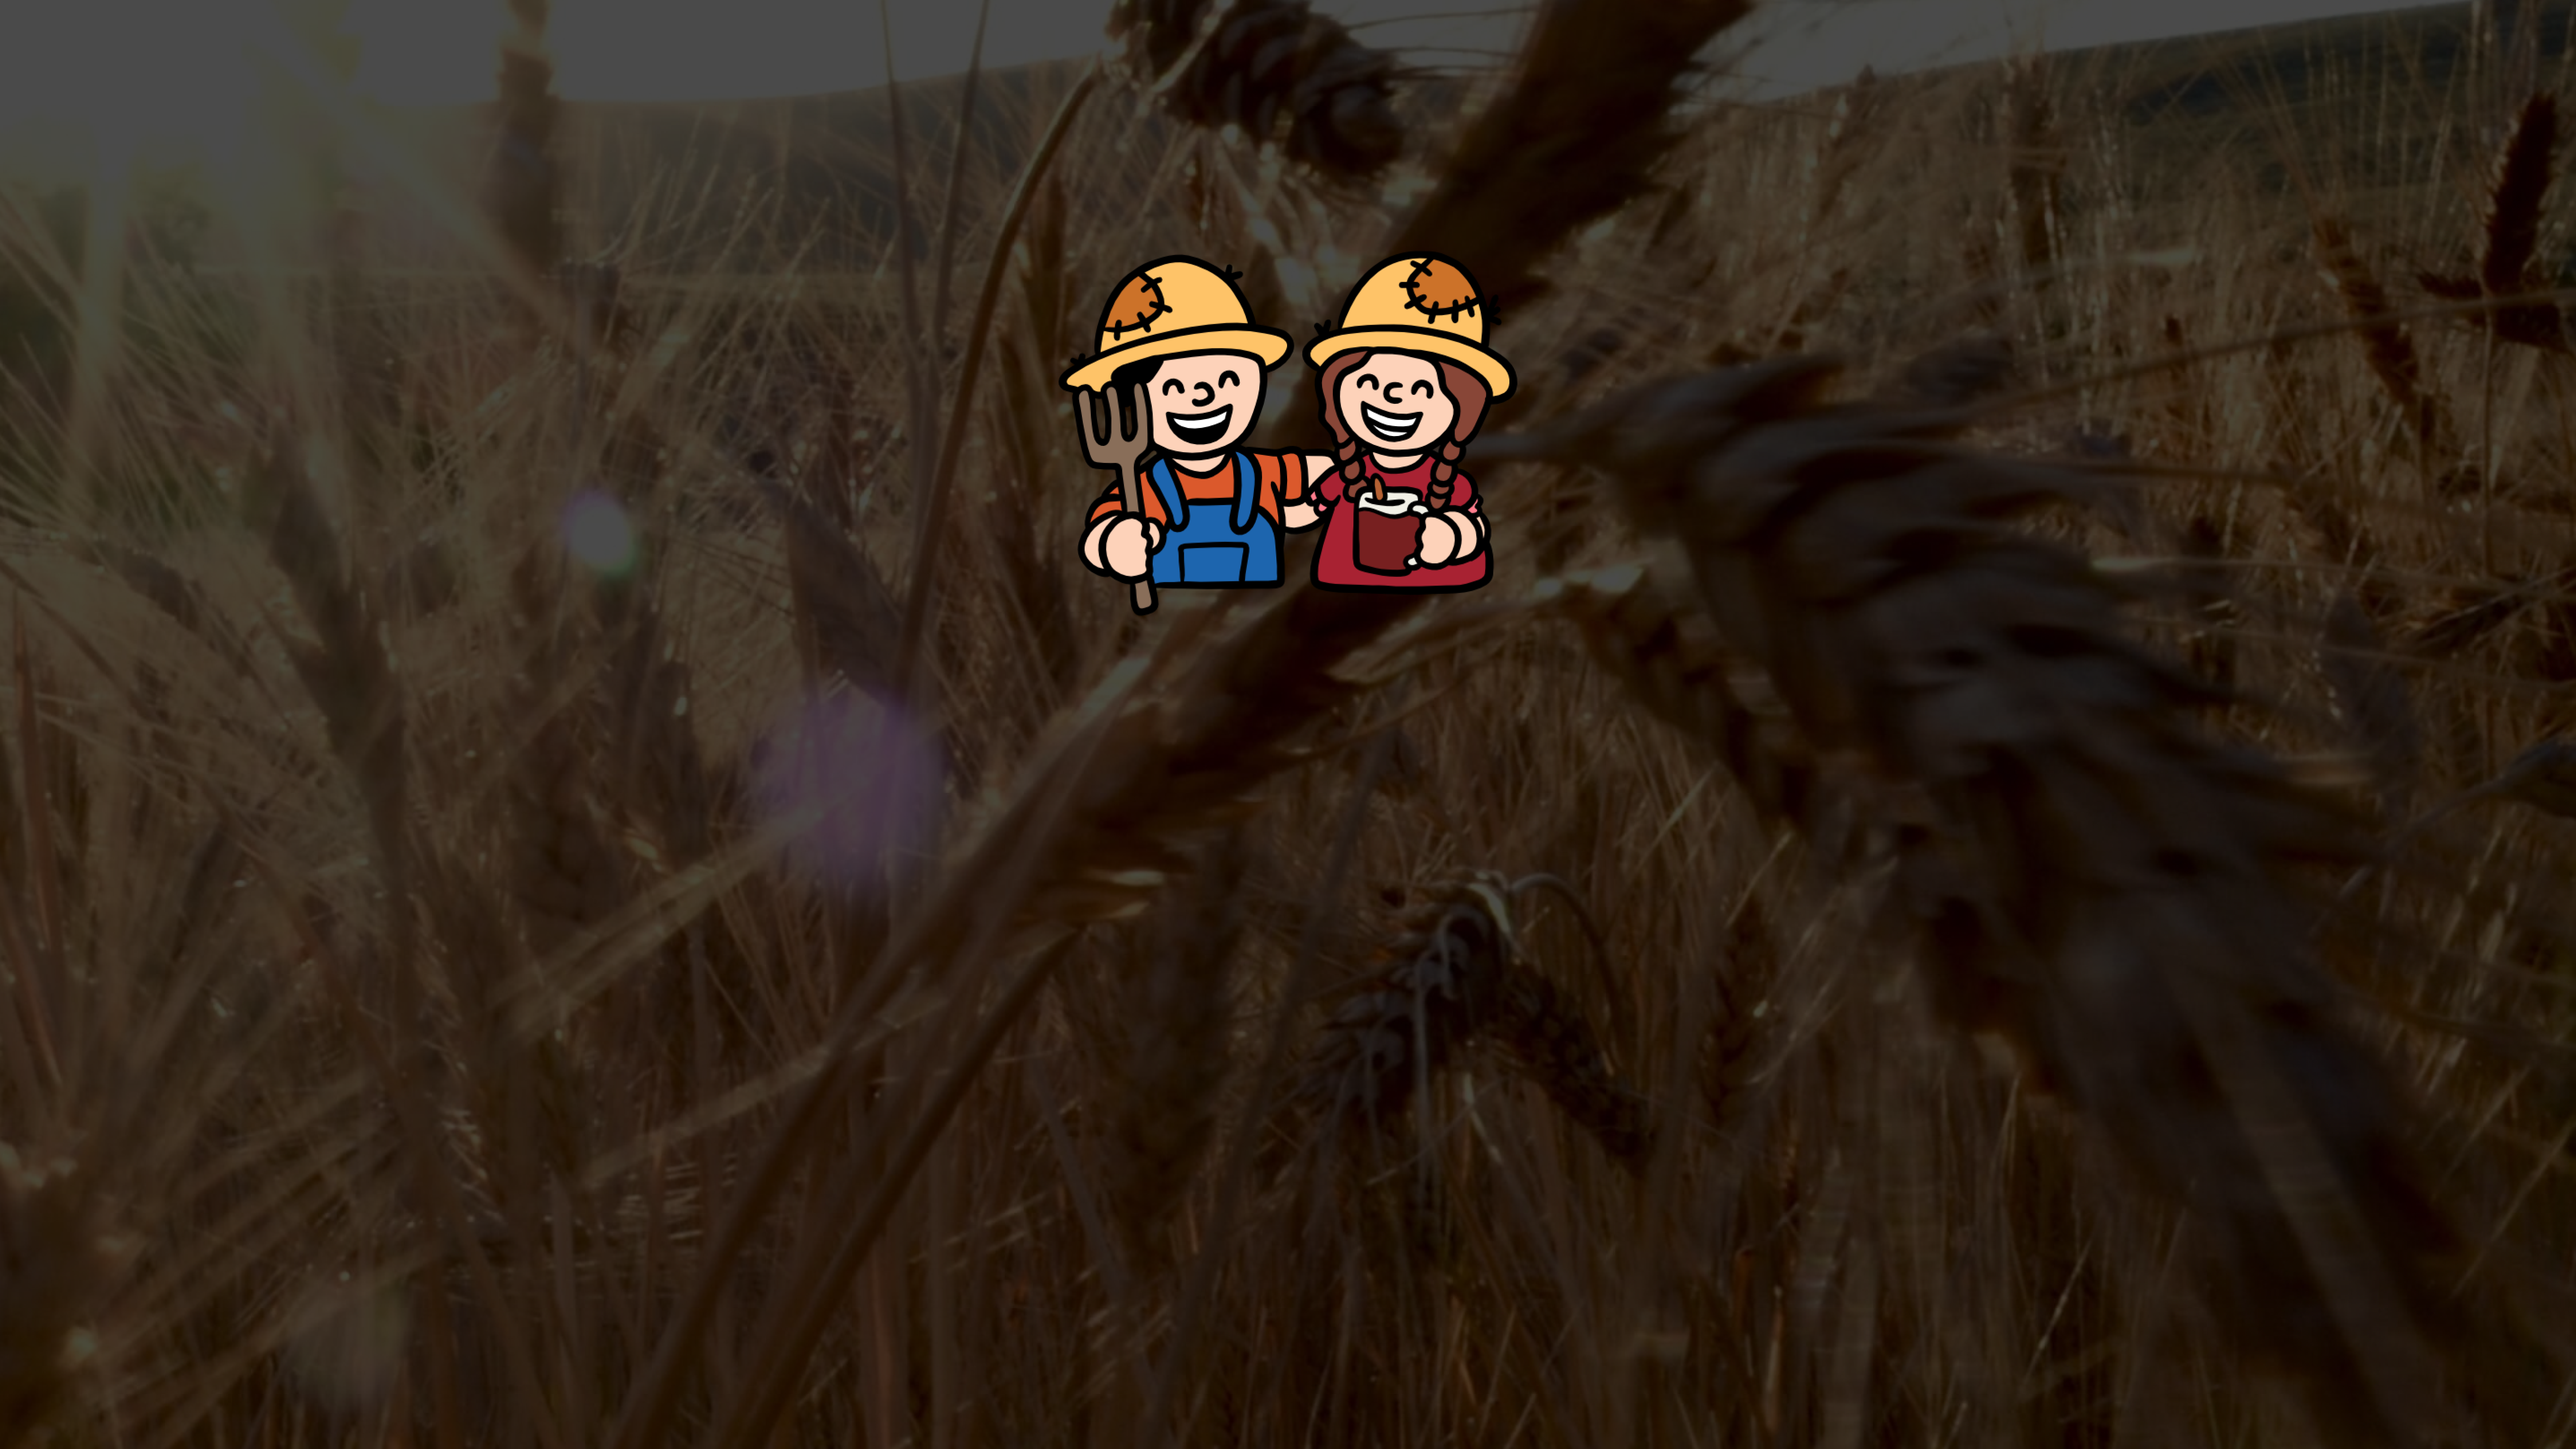
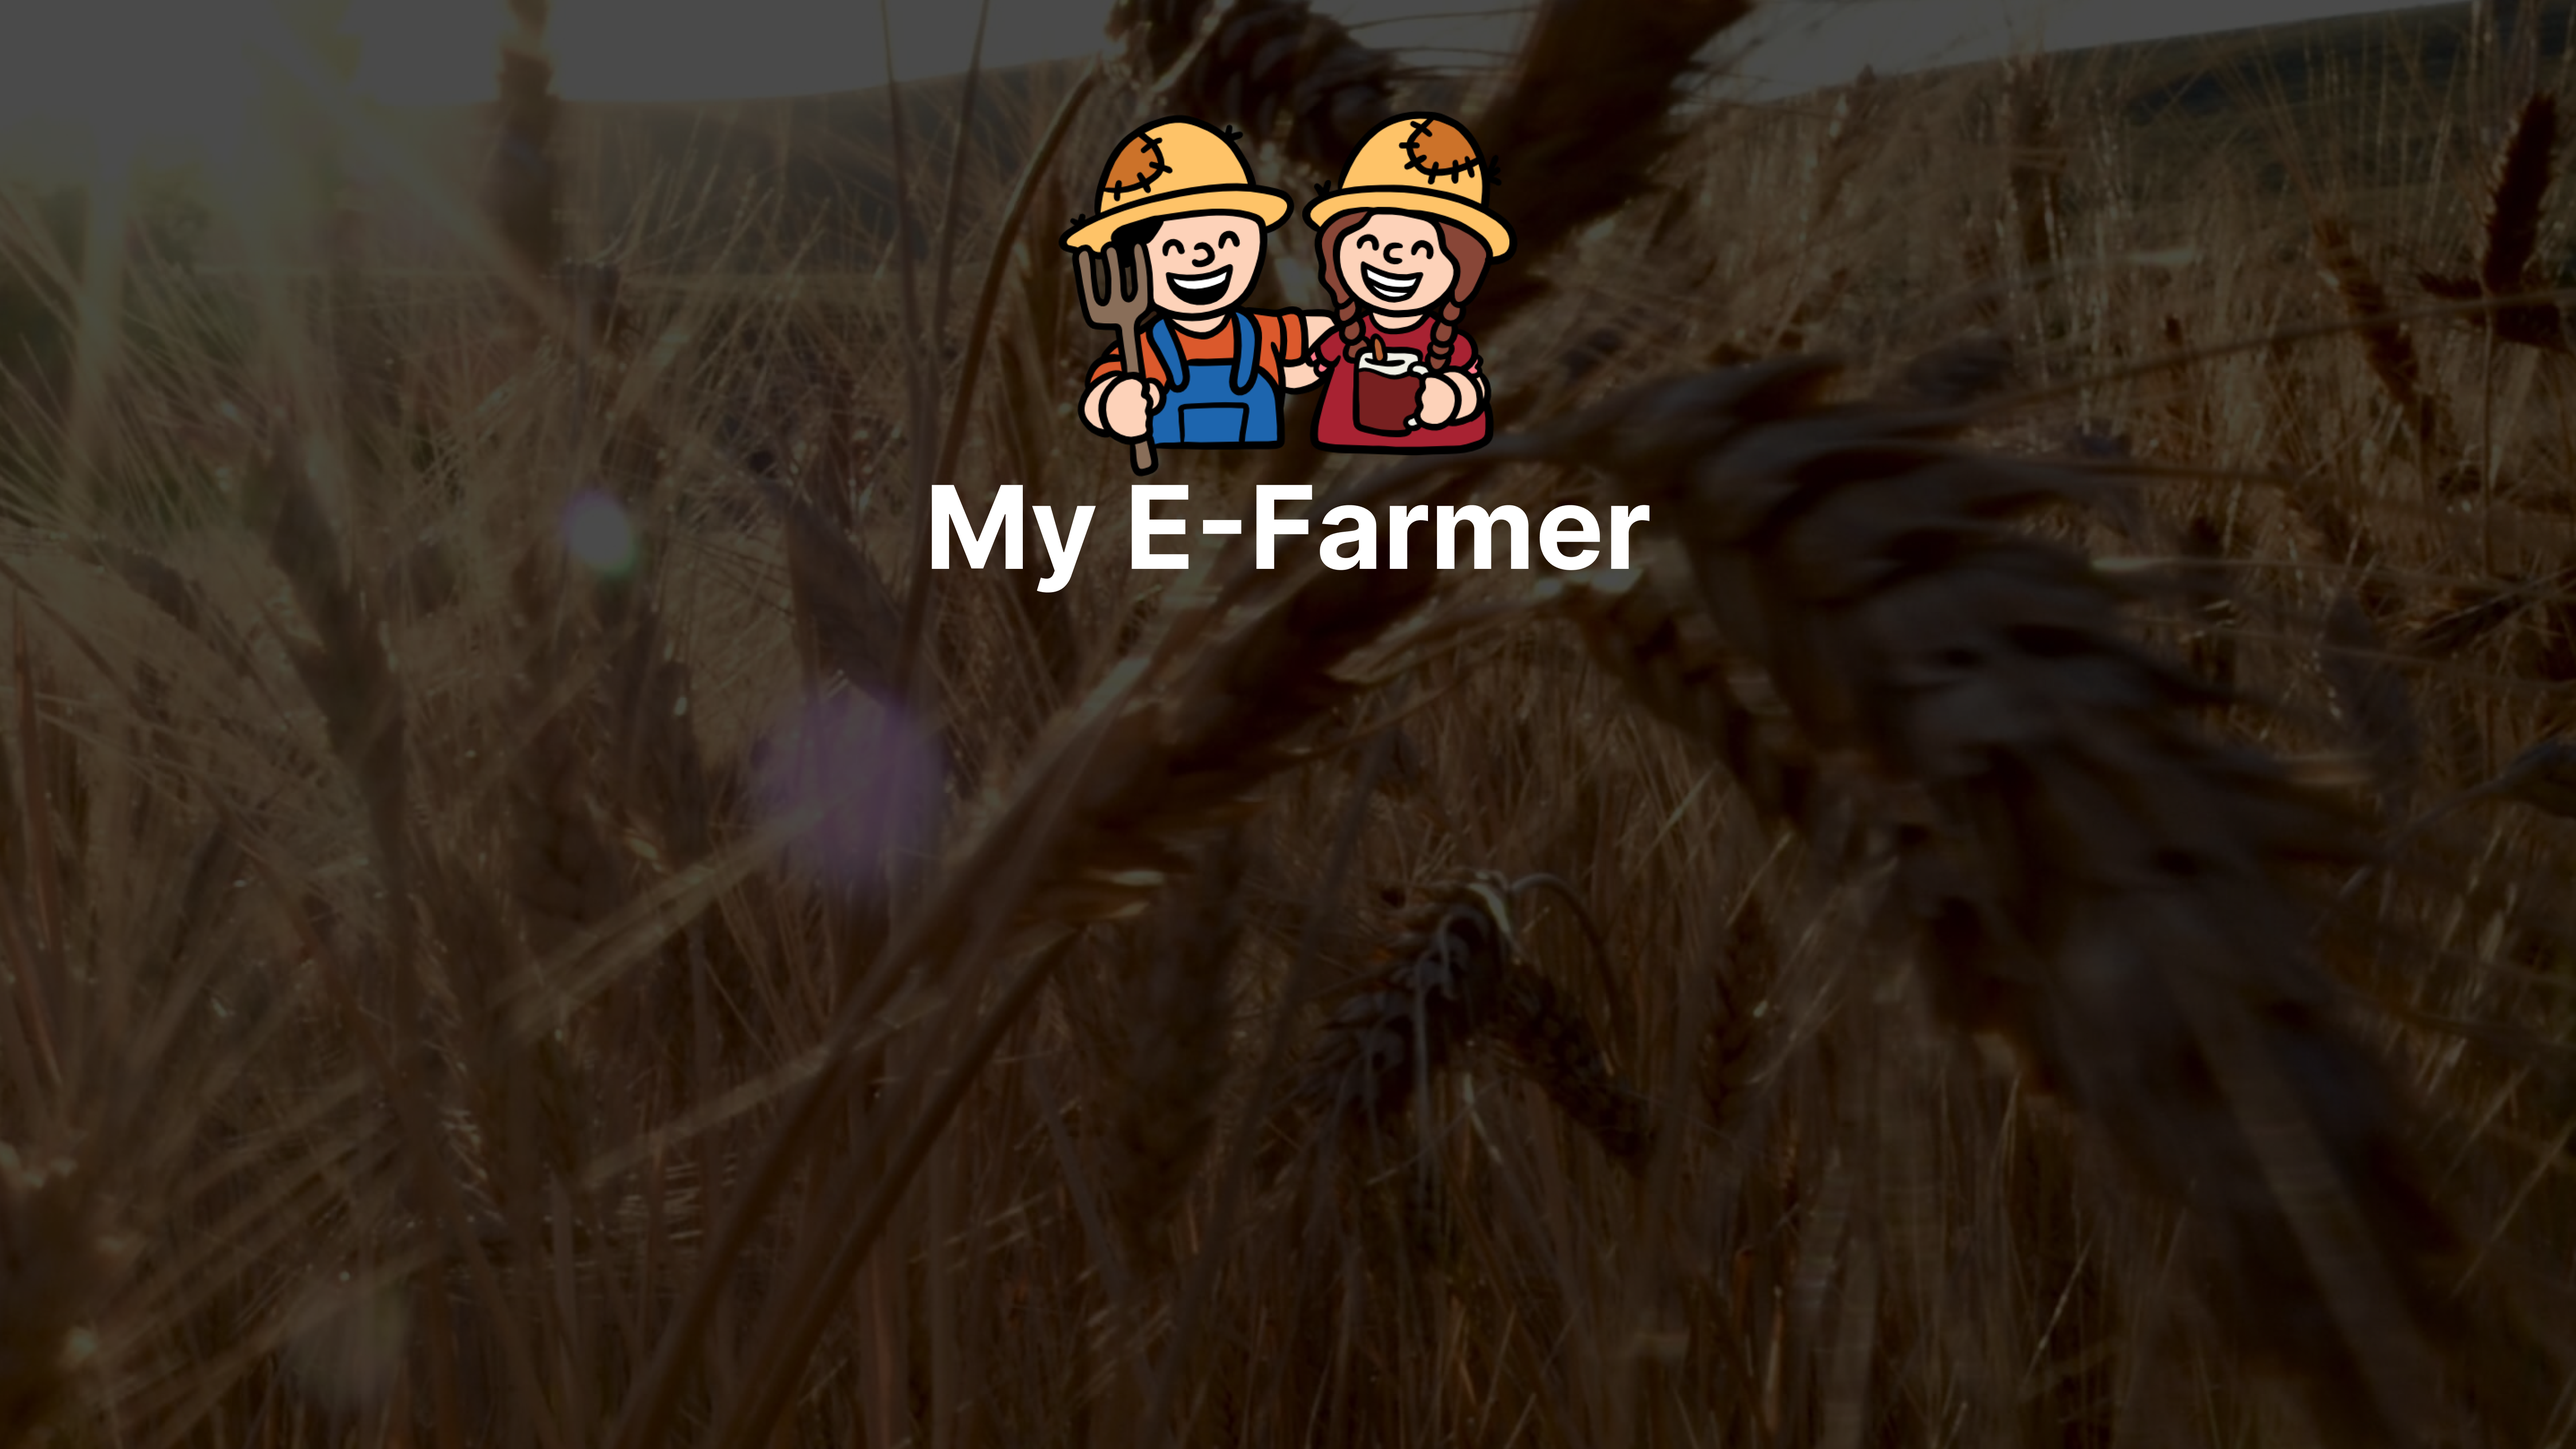
admin

Changed region(s): [[0.3438, 0.0623, 0.6562, 0.4364]]

diff --git a/farmers/templates/farmers/new_base.html b/farmers/templates/farmers/new_base.html
@@ -34,7 +34,7 @@
 
     <div class="logo">
         <img width="60px" style="padding-top: 10px;" src="../../../media/farmers 1.png" alt="">
-        <div style="padding-top: 20px;font-size:2rem;padding-left: 10px;"><strong>Agro Farm</strong></div>
+        <div style="padding-top: 20px;font-size:2rem;padding-left: 10px;"><strong>My E-Farmer </strong></div>
     </div>
 
     <div style="display: flex;justify-content: center">
